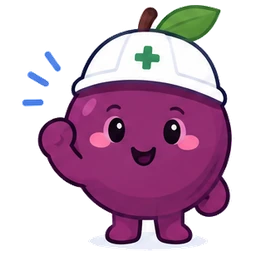
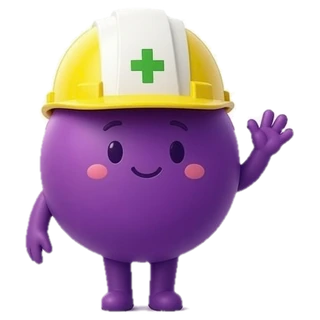
헤더 로고 원복, 홈 상단 캐릭터를 3D 컷으로 교체
Claude-Session: https://claude.ai/code/session_01VwpwWoRu48mPh6gBfEa8ad

diff --git a/assets/style.css b/assets/style.css
@@ -1560,8 +1560,6 @@ button.mc-d.today:not(.sel){outline:2px solid var(--navy);outline-offset:-2px}
 }
 
 /* 로고 타일·아이콘 컷 */
-img.logo-mark{width:40px;height:40px;border-radius:9px;border:1px solid var(--line);background:#fff}
-.logo-ft img.logo-mark{width:32px;height:32px;border-radius:8px}
 .dx-card .i img{width:40px;height:40px;display:block}
 .tcard{position:relative}
 .tcard-i{position:absolute;right:16px;top:44px;width:52px;height:52px}

diff --git a/build.py b/build.py
@@ -626,7 +626,7 @@ def dock_html(rel, active):
 def _asset_ver():
     import hashlib
     h = hashlib.sha1()
-    for f in ("assets/style.css", "assets/docs.js", "assets/app.js", "assets/community.js", "assets/home-cal.js", "assets/favicon.png", "assets/img/plum/logo-tile.webp", "assets/img/ico/tbm.webp"):
+    for f in ("assets/style.css", "assets/docs.js", "assets/app.js", "assets/community.js", "assets/home-cal.js", "assets/favicon.png", "assets/img/plum/logo.webp", "assets/img/plum/hero.webp", "assets/img/ico/tbm.webp"):
         h.update((ROOT / f).read_bytes())
     return h.hexdigest()[:8]
 
@@ -786,7 +786,7 @@ def page(site, rel_root, path, title, body, desc=None, active=""):
 <script src="{rel_root}assets/app.js?v={ASSET_VER}" defer></script>
 </body>
 </html>
-""".replace("@LOGO@", f'<img class="logo-mark" alt="" width="40" height="40" src="{rel_root}assets/img/plum/logo-tile.webp?v={ASSET_VER}">')
+""".replace("@LOGO@", f'<img class="logo-mark" alt="" width="36" height="36" src="{rel_root}assets/img/plum/logo.webp?v={ASSET_VER}">')
 
 
 # ---------------------------------------------------------------- 컴포넌트
